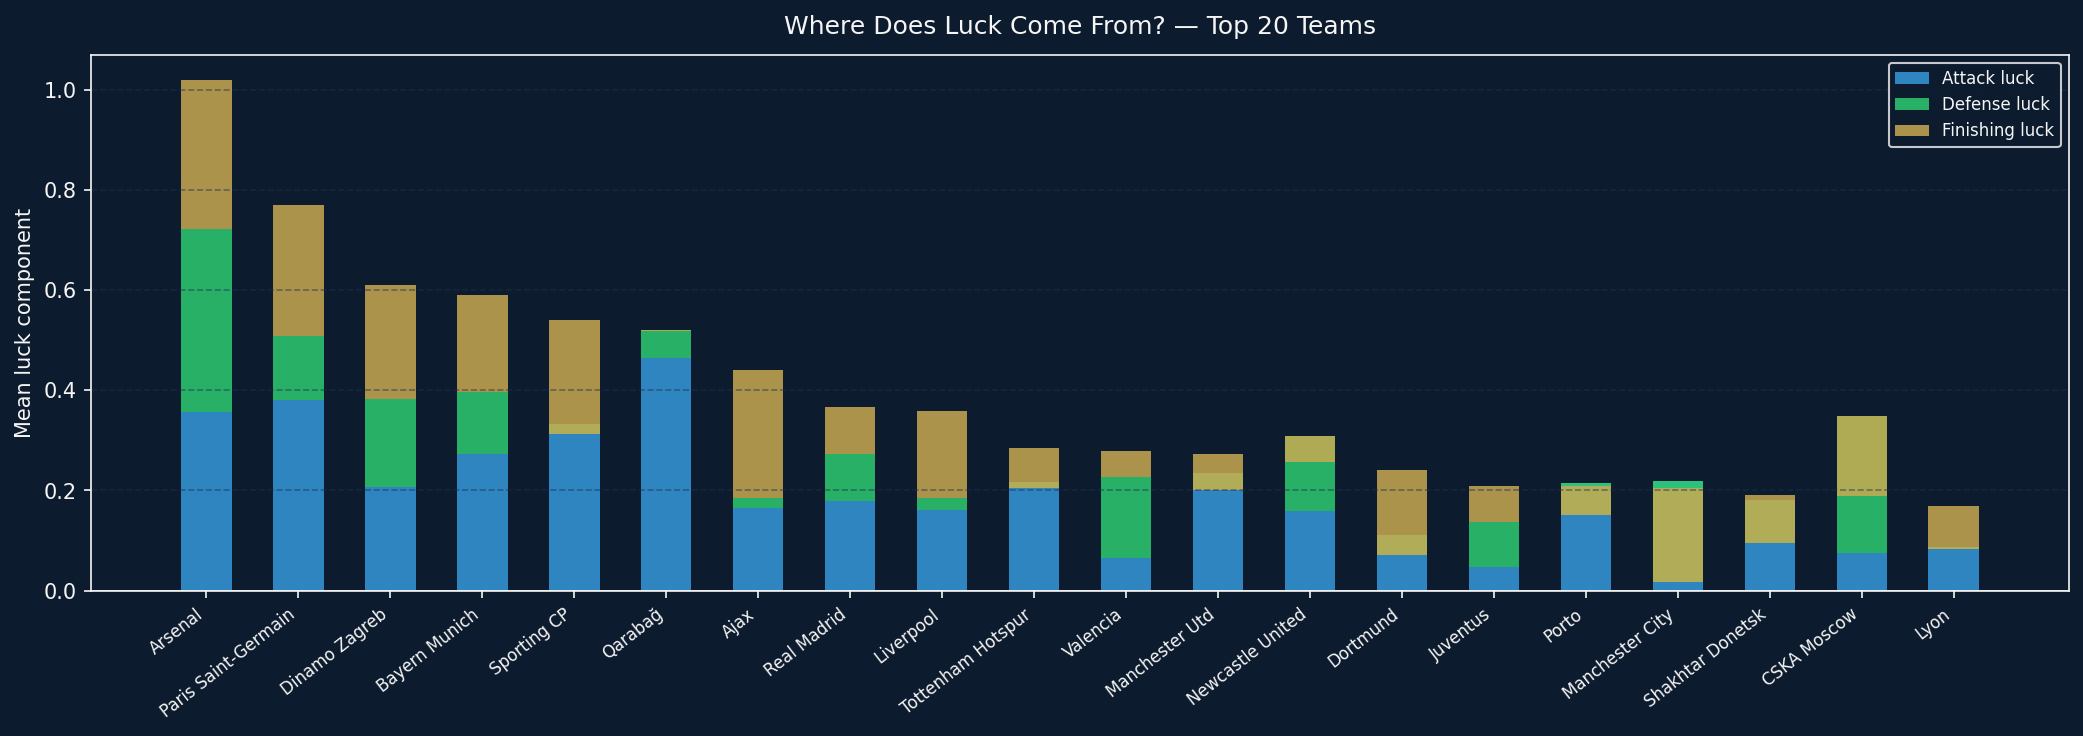
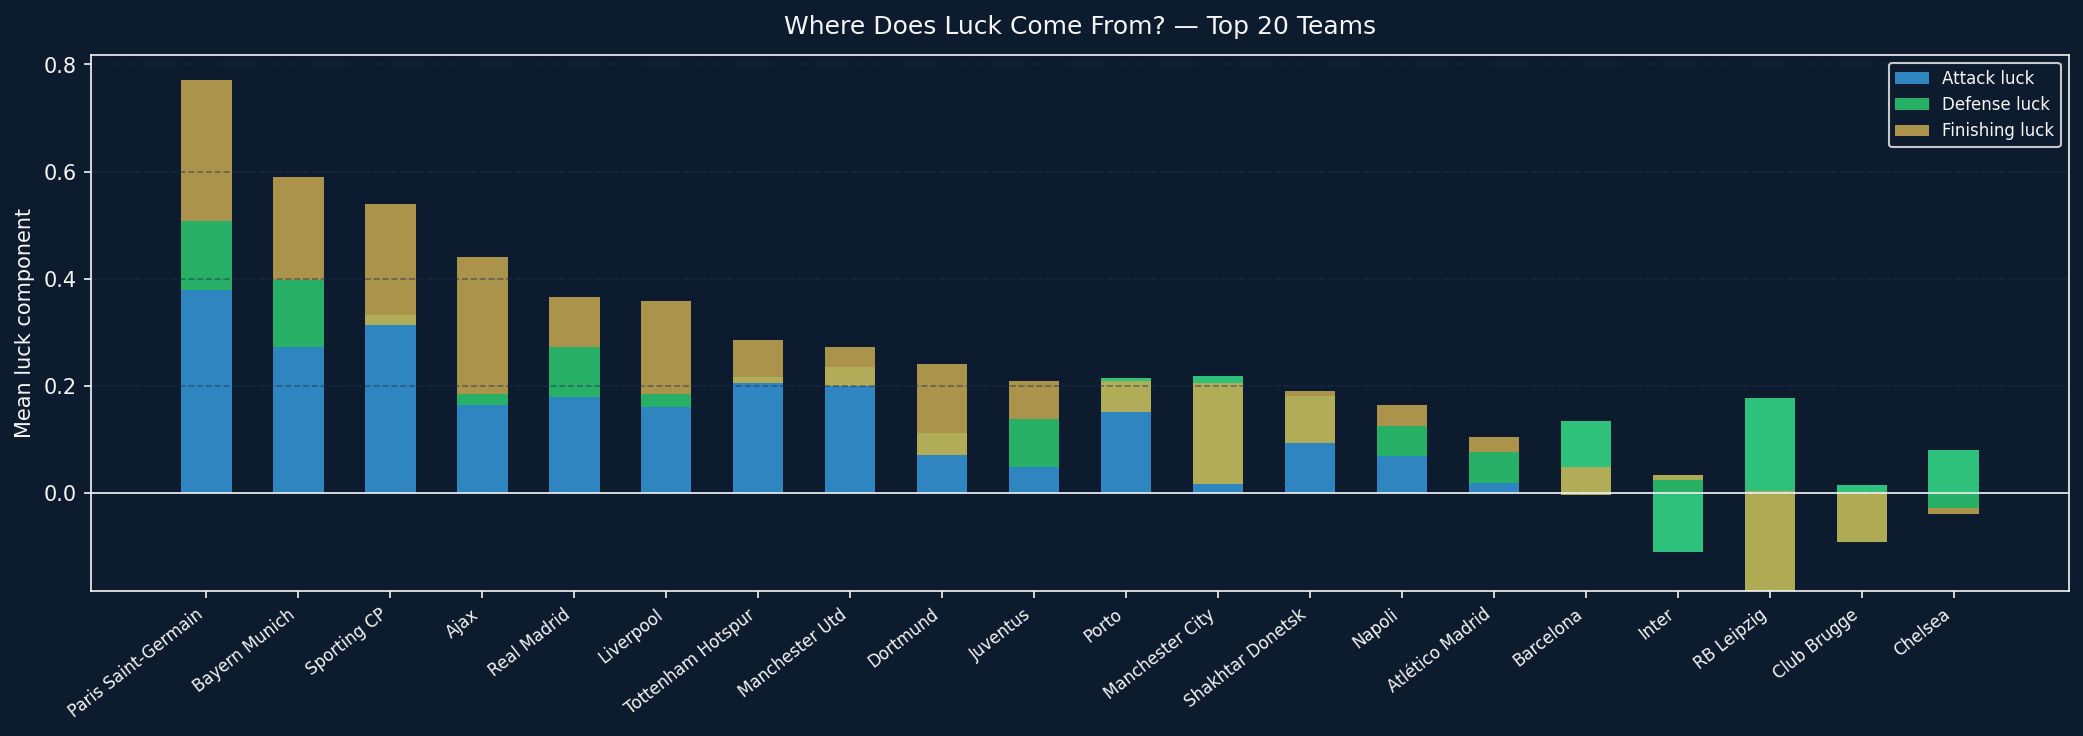
filter summary to teams with ≥5 seasons, rebuild figures

diff --git a/src/luck_analysis.py b/src/luck_analysis.py
@@ -26,7 +26,7 @@ from scipy import stats
 from statsmodels.stats.multitest import multipletests
 
 DATA_PATH = Path("data/combined/master.csv")
-MIN_SEASONS = 2  # minimum seasons for a team to appear in the summary
+MIN_SEASONS = 5  # minimum seasons for a team to appear in the summary
 
 
 # ---------------------------------------------------------------------------
